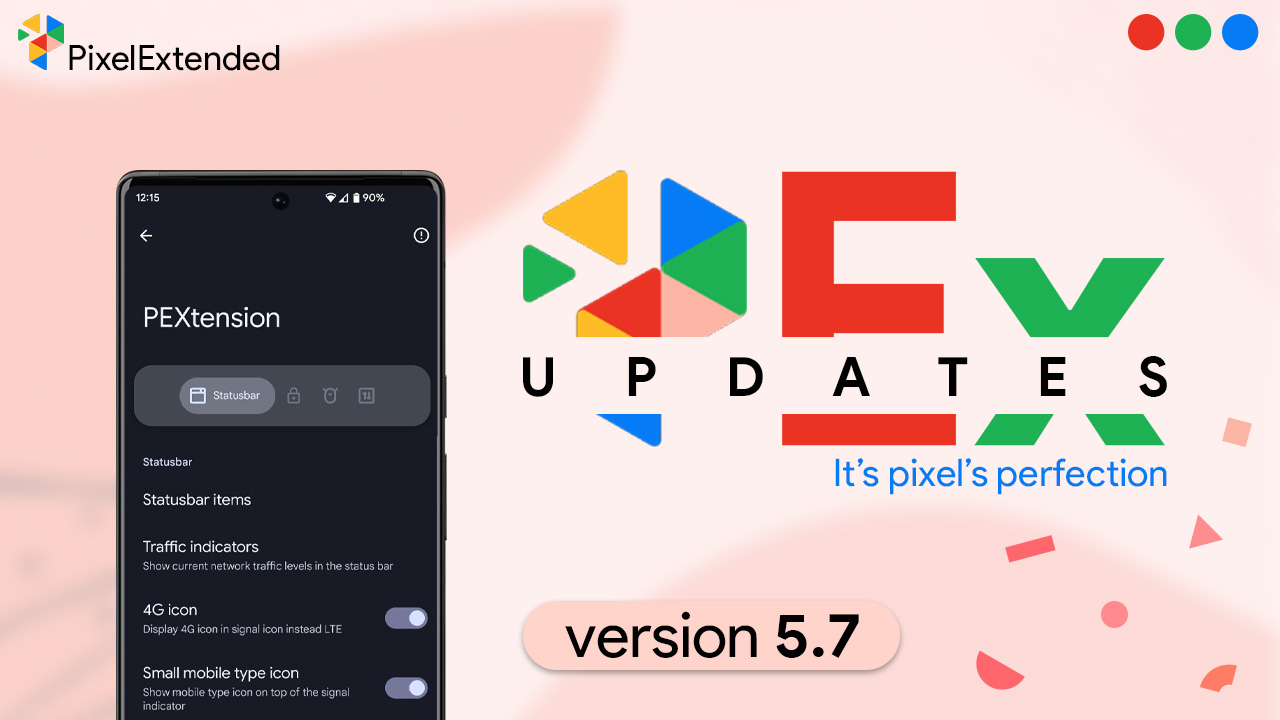
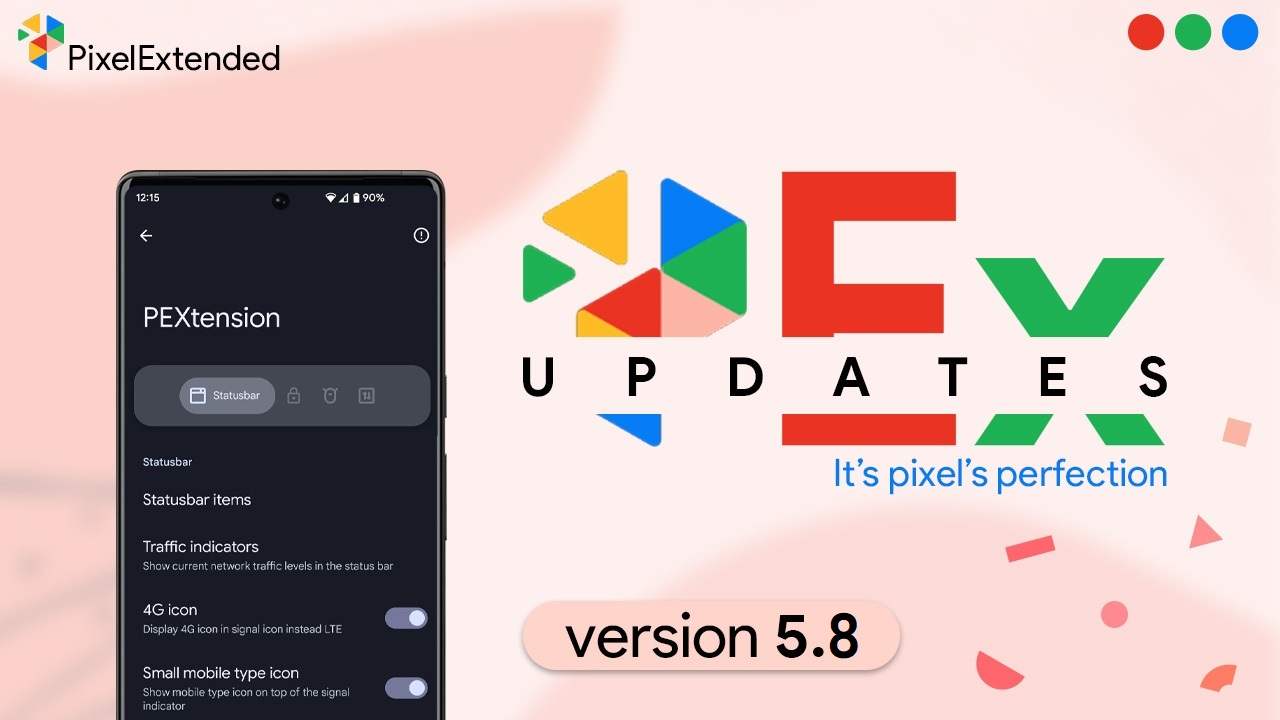
V5.8

diff --git a/changelog.md b/changelog.md
@@ -1,4 +1,11 @@
 # Changelog
+
+  # V5.8 (06/05/2023)
+  
+  - Merged May Security Patches 
+  - Added double tap to sleep in lockscreen
+  - Added toggle for wake on plug
+  - ... and other small improvements
  
   # V5.7 (19/04/2023) ! Heat Waves 🔥
   
